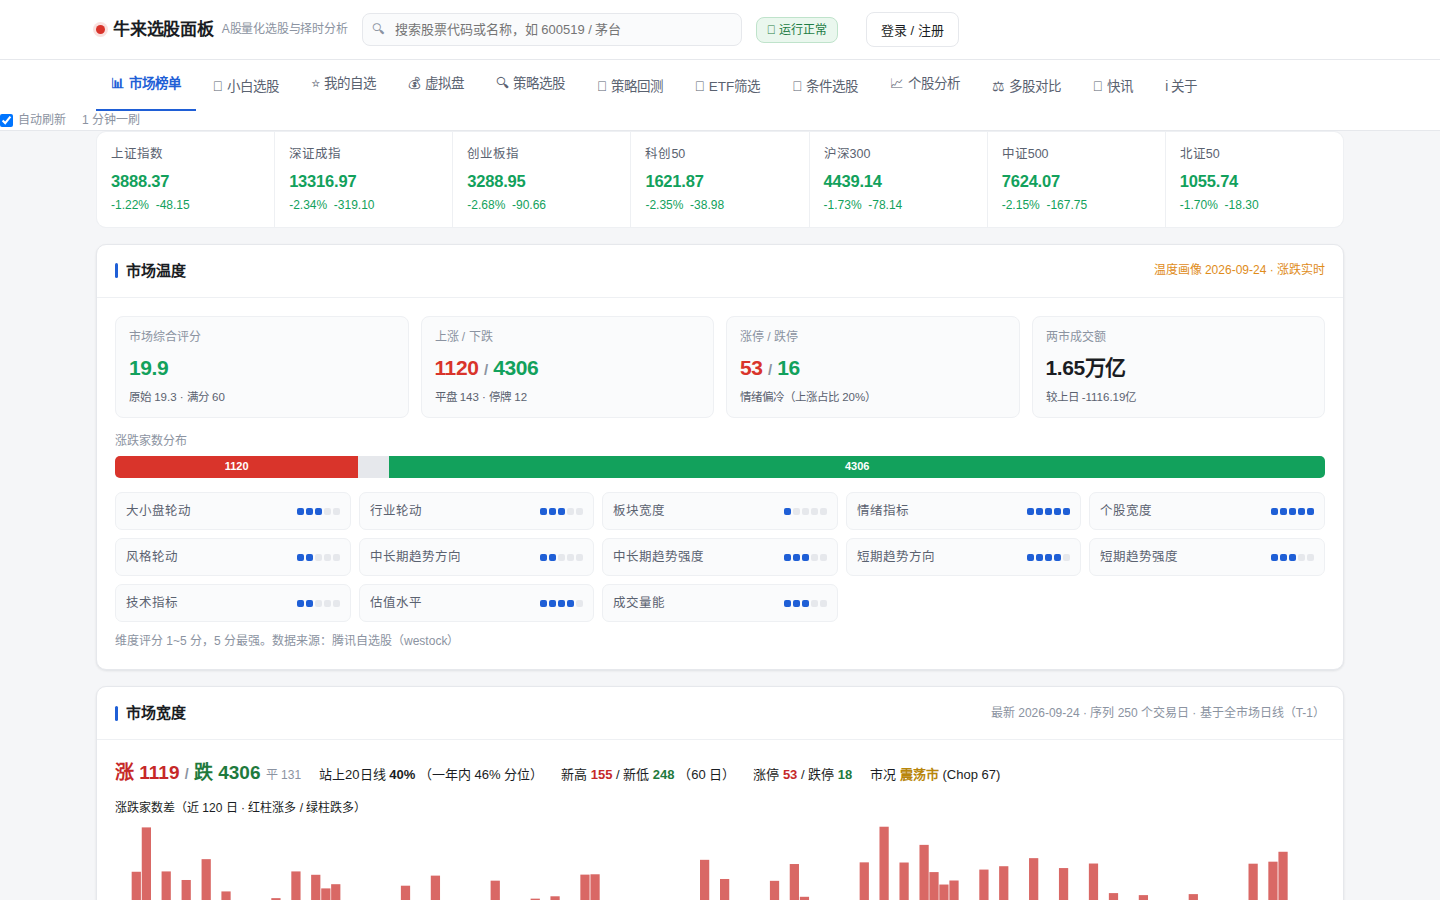
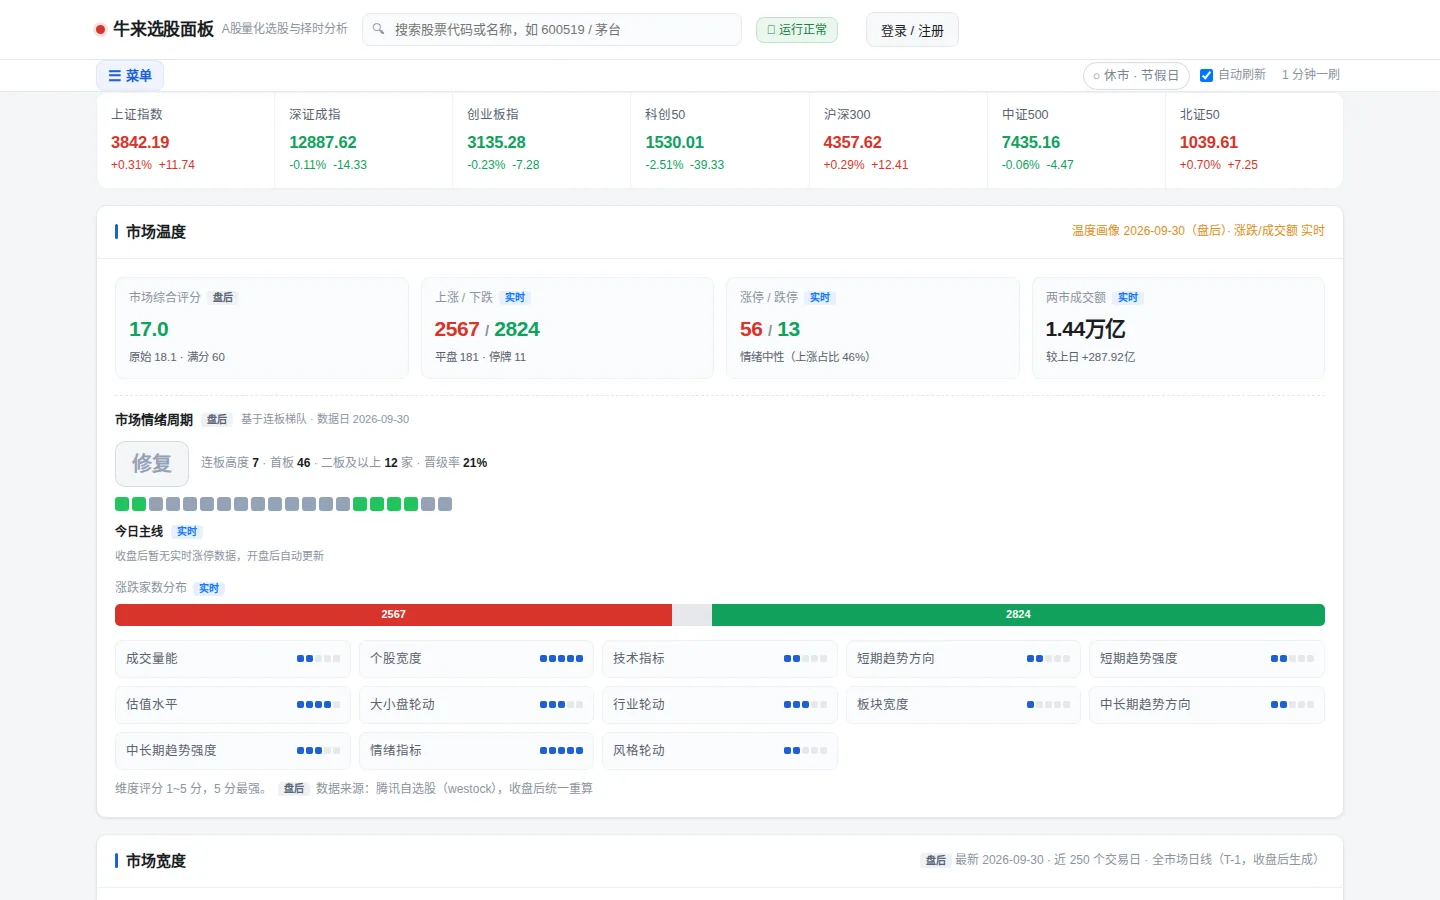
feat(前端)+docs: 小白选股图标改内联SVG + 重截全部README截图 + README排版升级
小白选股图标（修 README 里显示异常的根因）：
  四套方案图标原为 emoji（🏛🪃🚀🔥），依赖 emoji 字体：
  🪃 在部分字体渲染成怪异钩状，🚀/🔥 缺字形显示空白方框
  改为内联 SVG 线稿（盾牌/V型反弹/上升折线/火焰），不依赖字体，
  跨平台一致；结果标题同步接入；.ic 样式改 svg 尺寸+主题色

README 截图全部重截（导航改版后旧图过时）：
  01-10 共 10 张重新截取，顶栏已是「☰菜单」4 组抽屉
  就绪判断改为轮询内容出现（修 09-limitup 截到加载中的问题）
  08-stock 先 loadStock('600519') 再截（原为空态提示）
  webp 43~168KB，目录 1.0M（更小）

README 排版升级（参考热门 README 范式）：
  新增「🎯 为什么用它」四张亮点卡片 + 顶部三卡 CTA 导航
  目录改 <details> 可折叠；连板+题材两图并排（.pair 栅格）
  「快速开始」改名「5 分钟跑起来」；FAQ 增加休市日全 0 说明
  目录结构补 windowsim.py / holidays.py / index.html
  修复 4 处目录锚点（⚠ 后的 U+FE0F 变体字符致 GitHub 锚点失配，
  此为旧版遗留问题）；结尾加 star 引导与免责声明

验证：check_screen_history 全过 / check_admin_inspect 25/25 /
JS 语法 OK / 16 张图引用与 20 条目录锚点全匹配

diff --git a/web/index.html b/web/index.html
@@ -515,8 +515,13 @@ tbody tr:hover{background:#f7f9fc}
   background:var(--card);transition:.15s;position:relative;overflow:hidden}
 .nbcard:hover{transform:translateY(-2px);box-shadow:0 6px 18px rgba(20,26,40,.10);border-color:var(--accent)}
 .nbcard.on{border-color:var(--accent);background:var(--accent-bg);box-shadow:0 4px 14px rgba(31,95,214,.14)}
-.nbcard .ic{font-size:26px;line-height:1;font-family:"Apple Color Emoji","Segoe UI Emoji",
-  "Noto Color Emoji","Segoe UI Symbol",sans-serif}
+/* 方案图标：内联 SVG，不依赖 emoji 字体（各平台字形缺失会显示成方框） */
+.nbcard .ic{line-height:0;color:var(--accent)}
+.nbcard .ic svg{width:26px;height:26px;display:block}
+.nbcard.on .ic{color:var(--accent)}
+/* 结果标题里的小图标 */
+#nbResTitle{display:inline-flex;align-items:center;gap:7px}
+#nbResTitle svg{width:18px;height:18px;flex:none;color:var(--accent)}
 .nbcard .nm{font-size:15.5px;font-weight:700;margin:8px 0 3px;color:var(--tx)}
 .nbcard .tl{font-size:12.5px;color:var(--tx2);line-height:1.5;min-height:34px}
 .nbcard .ds{font-size:11.5px;color:var(--tx3);line-height:1.5;margin-top:8px;
@@ -8337,12 +8342,36 @@ function loadNewbiePresets(){
   });
 }
 
+/* 方案图标用内联 SVG（不依赖 emoji 字体，避免各平台字形缺失显示成方框/怪符号） */
+var NB_ICON = {
+  // 稳健白马：盾牌 + 对勾
+  steady:'<svg viewBox="0 0 24 24" fill="none" stroke="currentColor" stroke-width="1.7" '+
+    'stroke-linecap="round" stroke-linejoin="round" aria-hidden="true">'+
+    '<path d="M12 2.8l7.4 3.1v5.2c0 4.3-3 8.1-7.4 9.9-4.4-1.8-7.4-5.6-7.4-9.9V5.9L12 2.8z"/>'+
+    '<path d="M8.7 11.9l2.3 2.3 4.4-4.6"/></svg>',
+  // 超跌反弹：先跌后升的 V 型折线
+  rebound:'<svg viewBox="0 0 24 24" fill="none" stroke="currentColor" stroke-width="1.7" '+
+    'stroke-linecap="round" stroke-linejoin="round" aria-hidden="true">'+
+    '<path d="M2.8 6.2l4.6 8.4 3.4-4.9 10.4-5.6"/>'+
+    '<path d="M13.6 5.6h5.8v5.8"/></svg>',
+  // 成长活跃：上升折线 + 右上角箭头
+  growth:'<svg viewBox="0 0 24 24" fill="none" stroke="currentColor" stroke-width="1.7" '+
+    'stroke-linecap="round" stroke-linejoin="round" aria-hidden="true">'+
+    '<path d="M3 17.5l4.8-5.2 3.4 3.2L20.4 5.4"/>'+
+    '<path d="M14.7 5.4h5.7v5.7"/></svg>',
+  // 打板热点：火焰（外焰 + 内焰）
+  hot:'<svg viewBox="0 0 24 24" fill="none" stroke="currentColor" stroke-width="1.7" '+
+    'stroke-linecap="round" stroke-linejoin="round" aria-hidden="true">'+
+    '<path d="M12 2.6c3.9 3.9 5.9 6.4 5.9 9.5a5.9 5.9 0 1 1-11.8 0c0-3.1 2-5.6 5.9-9.5z"/>'+
+    '<path d="M12 12.2c1.6 1.5 2.4 2.6 2.4 3.7a2.4 2.4 0 1 1-4.8 0c0-1.1.8-2.2 2.4-3.7z"/></svg>'
+};
+
 function renderNewbiePicks(){
   var h = '';
   nbState.presets.forEach(function(p){
     var rc = nbRiskColor(p.risk);
     h += '<div class="nbcard' + (nbState.cur === p.key ? ' on' : '') + '" data-nbpick="' + p.key + '">';
-    h += '<div class="ic">' + p.icon + '</div>';
+    h += '<div class="ic">' + (NB_ICON[p.key] || '') + '</div>';
     h += '<div class="nm">' + esc(p.name) + '</div>';
     h += '<div class="tl">' + esc(p.tagline) + '</div>';
     h += '<div class="ds">' + esc(p.desc) + '</div>';
@@ -8365,7 +8394,8 @@ function runNewbie(key, force){
   nbState.presets.forEach(function(x){ if(x.key === key) p = x; });
 
   $('nbResultHead').style.display = 'flex';
-  $('nbResTitle').textContent = p ? (p.icon + ' ' + p.name) : '选股结果';
+  $('nbResTitle').textContent = p ? p.name : '选股结果';
+  $('nbResTitle').insertAdjacentHTML('afterbegin', (p && NB_ICON[p.key]) || '');
   $('nbResCount').textContent = '';
   $('nbBody').innerHTML = '<div class="nbempty"><span class="spin"></span> 正在扫描全市场，请稍候…</div>';
 
